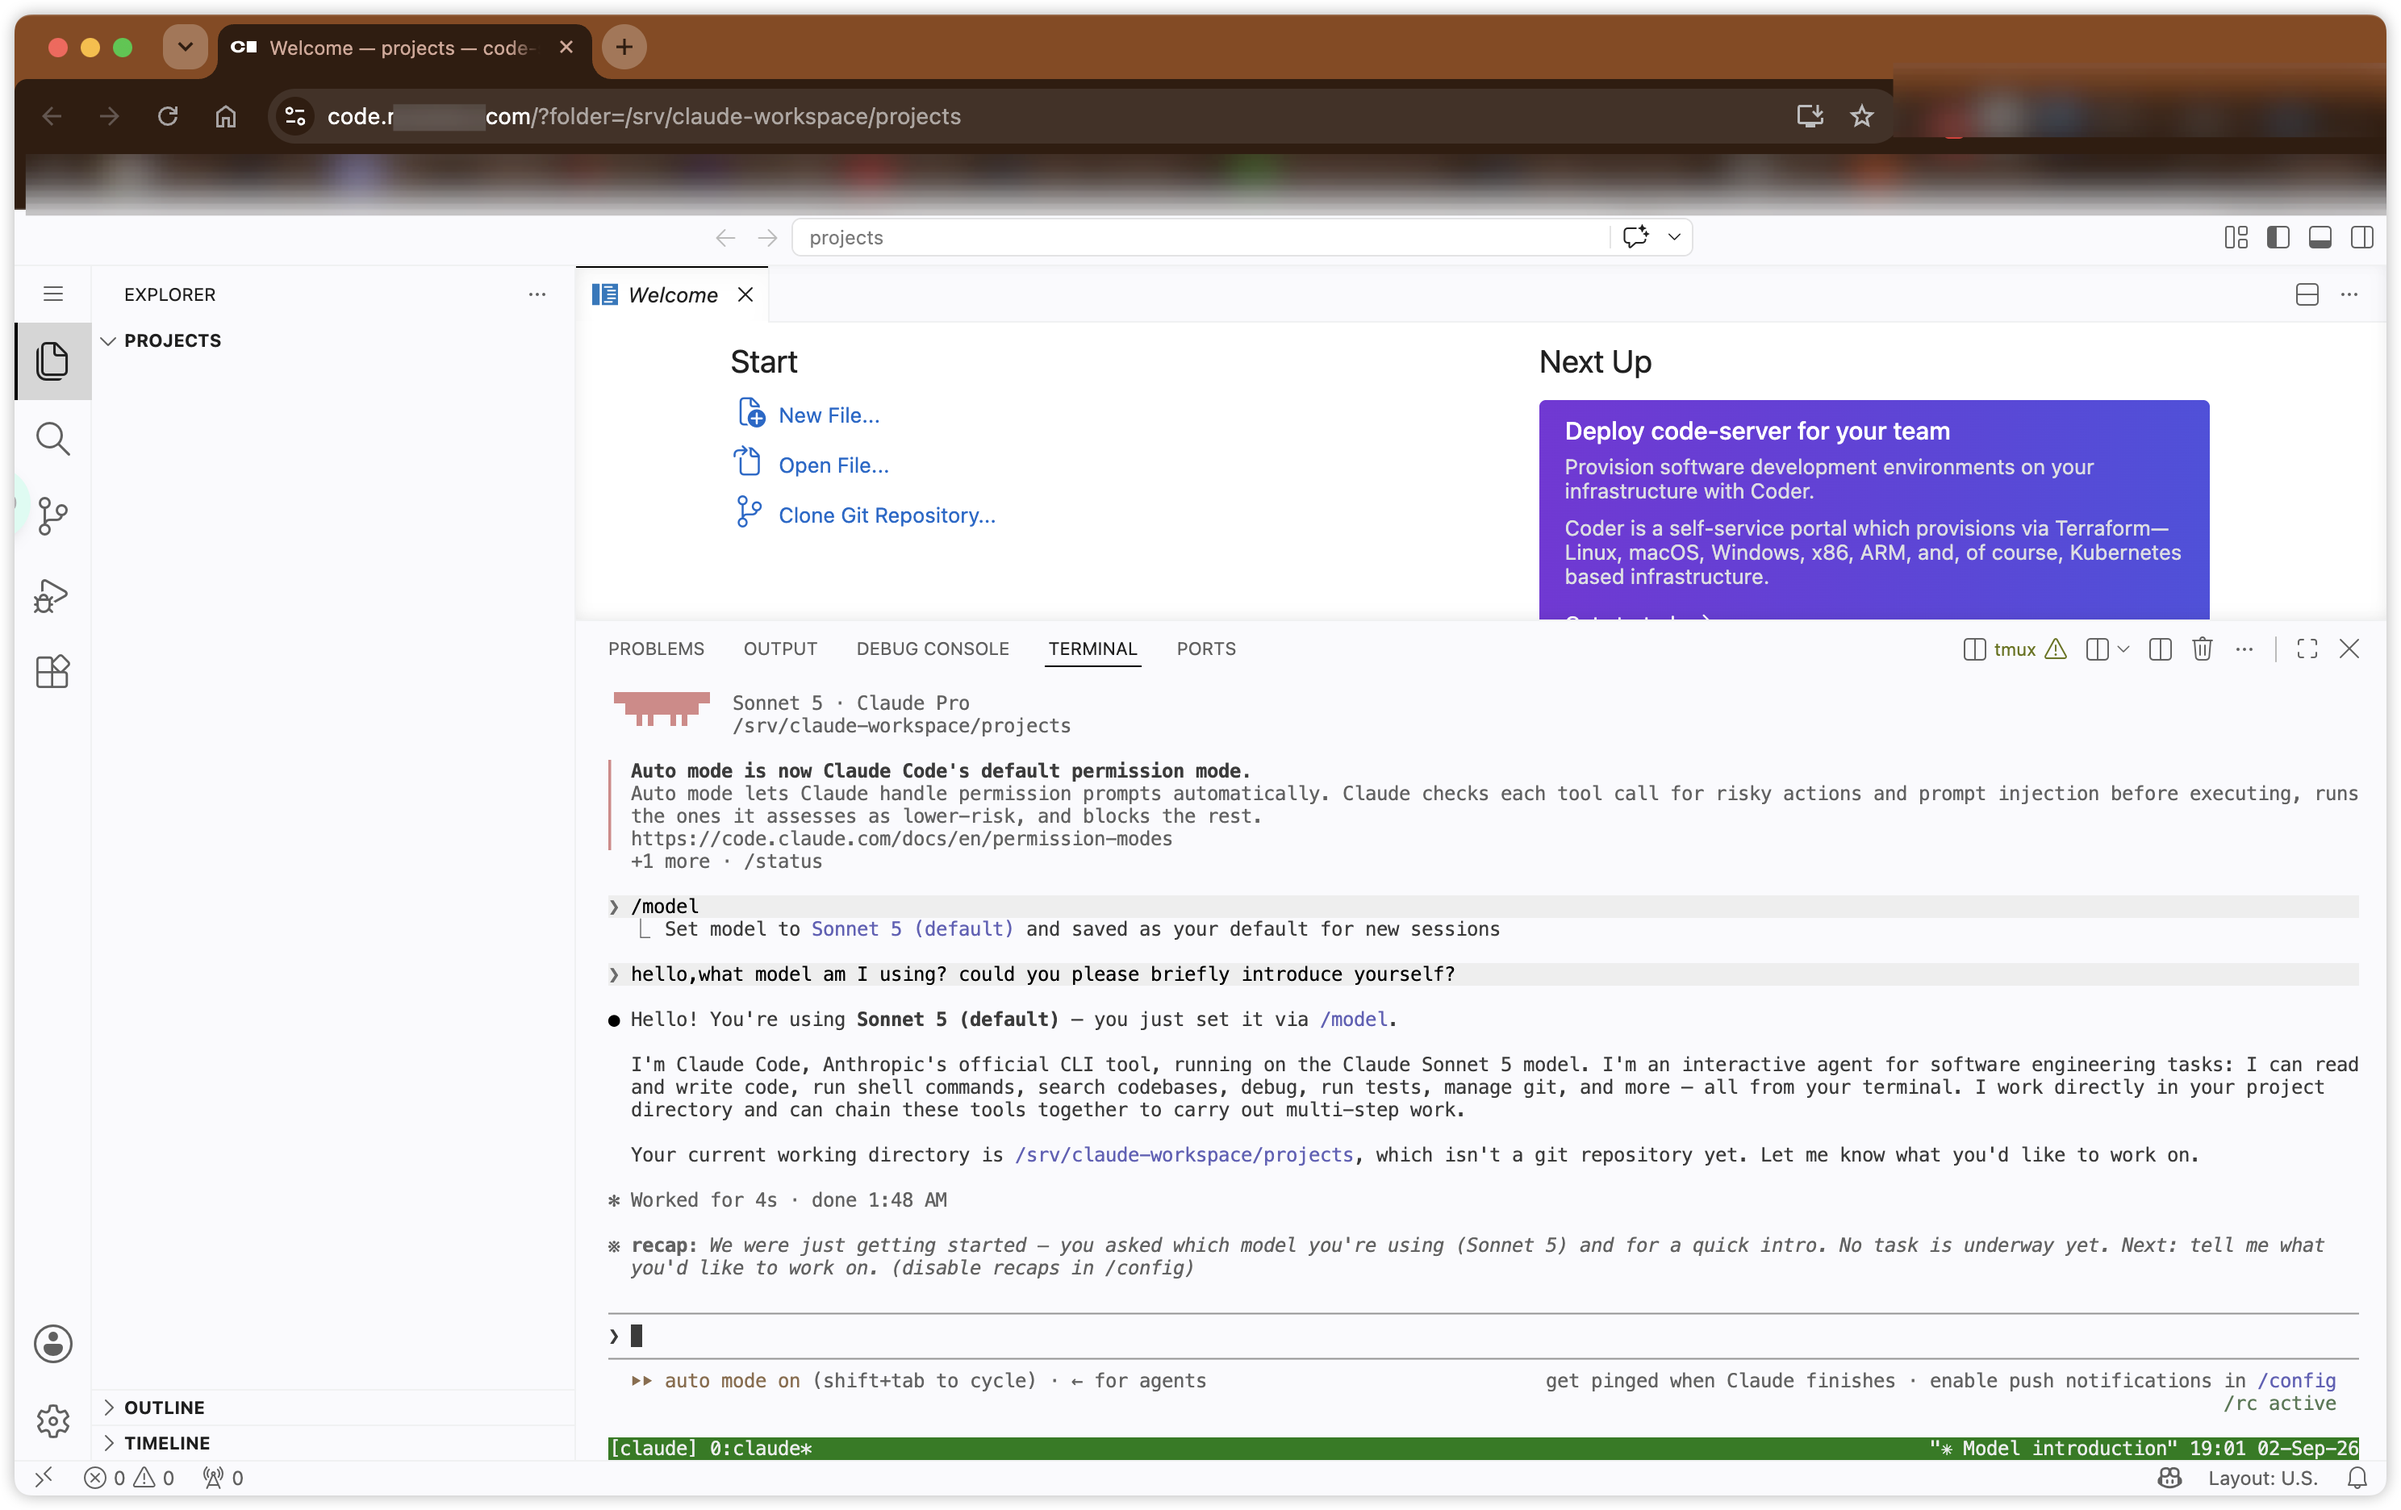
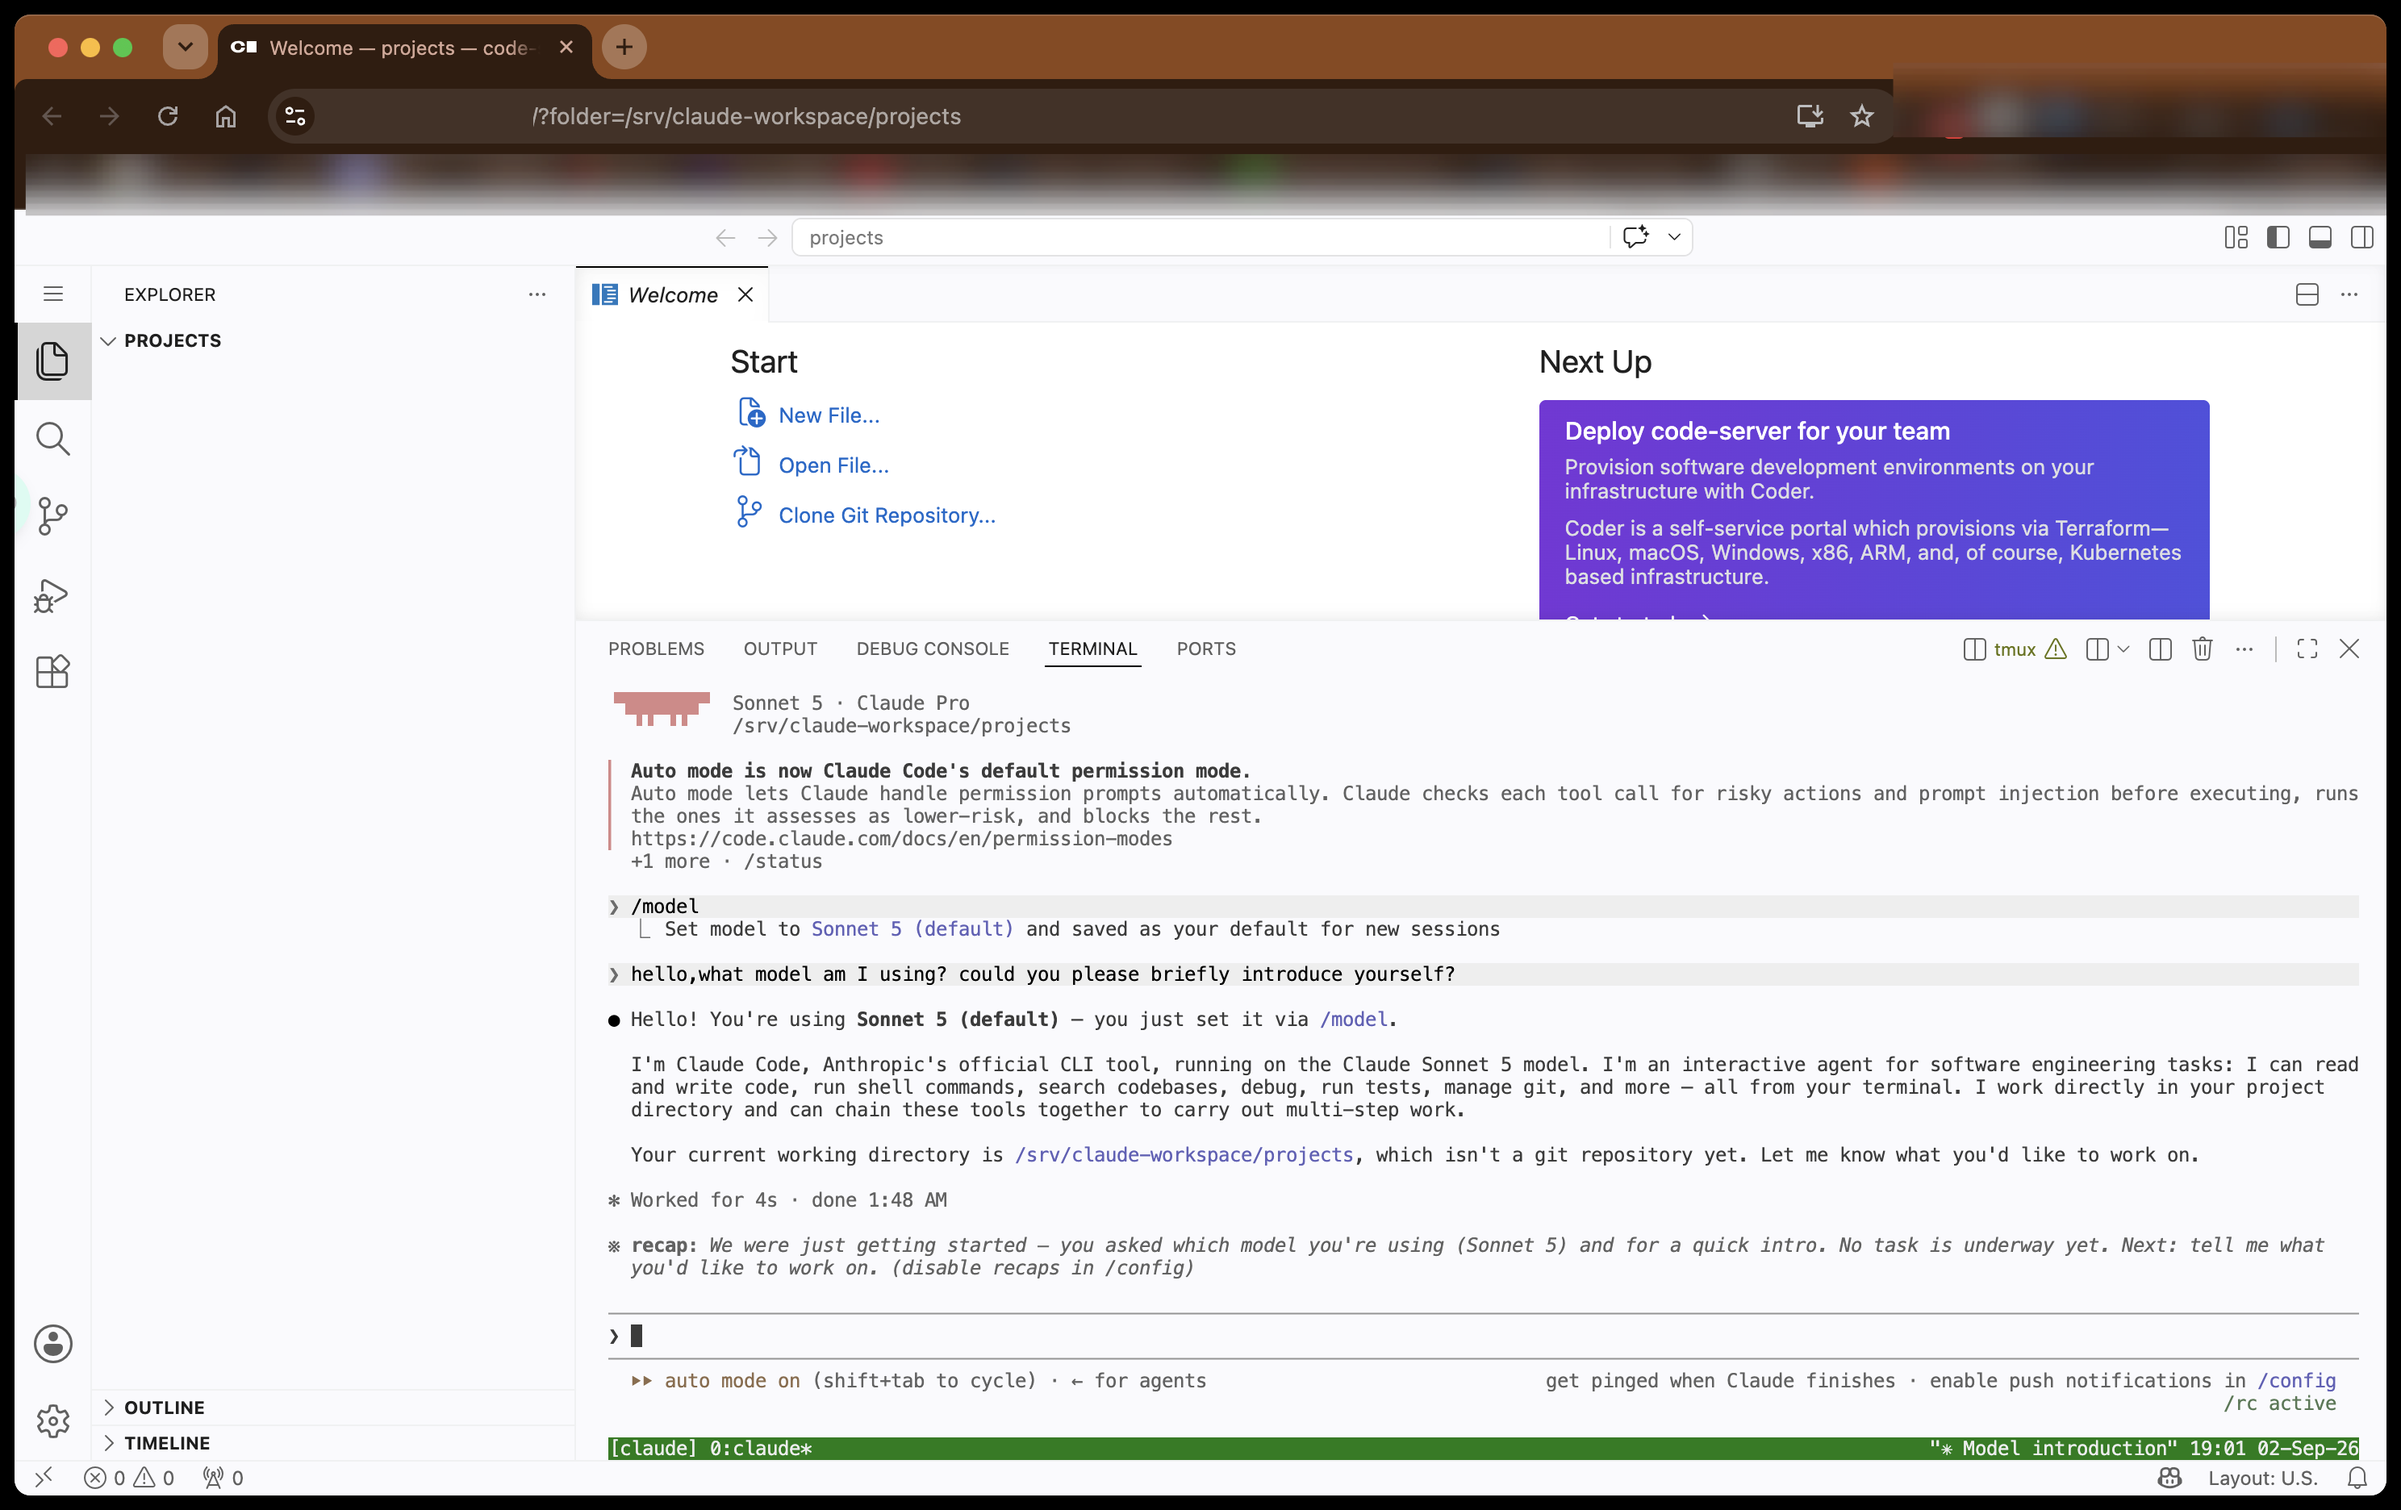
docs: add VS Code remote tunnel workflow

Changed region(s): [[0.0, 0.0, 1.0, 1.0], [0.1562, 0.062, 0.2188, 0.0929]]

diff --git a/AGENTS.md b/AGENTS.md
@@ -14,8 +14,11 @@
 
 - 远程 Chromium 访问官方 Claude.ai，使用画面串流；
 - code-server 提供浏览器终端，运行服务器上的官方 Claude Code；
+- 可选使用官方 VS Code Remote Tunnel，让本地 VS Code 连接同一服务器工作区并使用远程 Claude Code 扩展；
 - Cloudflare Access + 独立 Cloudflare Tunnel 是唯一公网入口；
 - Claude 网页和 Claude Code 不经过 Anthropic API relay、CPA、CLIProxyAPI、New API 或 LibreChat。
+
+这里的“唯一公网入口”是指项目自建的网页入口。可选 VS Code Remote Tunnel 使用微软官方服务建立出站连接，不创建本项目的入站监听、DNS 或 Caddy route。
 
 ## 默认部署模式
 
@@ -28,9 +31,10 @@
 - Chromium 使用独立 Docker bridge network；
 - Web 服务只监听 127.0.0.1；
 - Tunnel 单元名为 cloudflared-claude-workspace.service；
-- Chromium、code-server、Tunnel 使用独立 systemd 单元和资源上限。
+- Chromium、code-server、Tunnel 使用独立 systemd 单元和资源上限；
+- 用户明确启用桌面 VS Code 时，增加独立的 vscode-tunnel-claude-workspace.service，并让它与 code-server 共享工作区用户、运行 HOME、projects 和 TMUX_TMPDIR。
 
-只允许新增 /opt/claude-workspace、/srv/claude-workspace、名为 claude-workspace 的 Docker network、名为 claude-workspace-chromium 的容器，以及约定的三个 systemd 单元。不得为了方便使用不带 claude-workspace 标识的全局名称。
+只允许新增 /opt/claude-workspace、/srv/claude-workspace、名为 claude-workspace 的 Docker network、名为 claude-workspace-chromium 的容器，以及约定的工作区 systemd 单元。未选择桌面入口时不得擅自部署 VS Code Remote Tunnel。不得为了方便使用不带 claude-workspace 标识的全局名称。
 
 只有用户明确要求 dedicated-user 模式时，才创建 claude-ws 等专用账号、分离 HOME、ACL 或 nftables egress guard。多账户模式不是默认路径。
 
@@ -48,12 +52,15 @@
 10. 不把本地机场、代理变量、ANTHROPIC_BASE_URL 或第三方 relay 配到服务器的 Claude Code。
 11. 不复制其他设备的 Claude Profile、Cookie、~/.claude、~/.claude.json 或 OAuth Token。
 12. 不为健康检查发送真实模型请求；使用本地 health、systemd、Tunnel ready 和监听检查。
+13. VS Code Remote Tunnel 只能出站连接；不开放 Remote-SSH、authorized_keys、Caddy、DNS 或新端口，不运行 `tunnel service install` 或 `code update`。
+14. `code.<ZONE>` 只通向网页 code-server。本地 VS Code 必须使用官方 Remote Tunnels 连接方式，不能把这个 hostname 当成 VS Code Tunnel 或 SSH 地址。
 
 ## 必须停止并报告的情况
 
 - 当前 SSH 用户是 root，且没有用户指定的非 root 运行账号；
 - 3010/8080 和候选备用端口都被占用；
 - 发现已有同名工作区目录、容器、network、systemd 或 Tunnel 的来源不明；
+- 发现来源不明的 vscode-tunnel-claude-workspace.service、Tunnel 注册或远程扩展目录；
 - 旧服务在部署前后状态、启动时间、重启计数、端口、网络或配置发生变化；
 - 发现现有防火墙规则无法安全增量添加工作区规则；
 - 需要删除数据、volume、Profile、OAuth、Tunnel credentials 或修改旧服务；
@@ -73,16 +80,20 @@
 6. 在 Cloudflare 控制台创建两个默认拒绝、邮箱/身份组 + MFA 的 Access 应用。
 7. 创建独立 locally-managed Tunnel，仅路由到工作区回环端口；不用 Caddy，不创建源站 A/AAAA。
 8. 让用户完成远程 Chromium 的官方网页登录和远程 Claude Code OAuth。
-9. 用 scripts/check.sh verify、服务状态、端口、network、Tunnel ready 和旧服务基线做最终验收。
-10. 输出访问地址占位符、实际端口、服务状态、备份位置和回滚命令；不输出秘密。
+9. 用户选择桌面入口时，再部署固定版本的官方 VS Code CLI、独立 wrapper/systemd 和远程 `Anthropic.claude-code` 扩展；GitHub device login 由用户人工完成。
+10. 用 scripts/check.sh verify、服务状态、端口、network、Tunnel ready、可选 Remote Tunnel 和旧服务基线做最终验收。
+11. 输出访问地址占位符、实际端口、服务状态、备份位置和回滚命令；不输出秘密。
 
 ## 服务实现要求
 
 - Chromium 仅挂载 /srv/claude-workspace/browser；关闭分享、协作、文件传输、远程命令、麦克风等不需要的功能。
-- code-server 只打开 /srv/claude-workspace/projects，使用密码认证、disable telemetry、回环监听和 tmux。
+- code-server 只打开 /srv/claude-workspace/projects，使用密码认证、disable telemetry、回环监听和 tmux。其默认 Claude 入口是终端 CLI；不得假定或伪装已有 Claude 侧边栏。
 - Claude Code 运行时清除 ANTHROPIC_API_KEY、ANTHROPIC_BASE_URL、ANTHROPIC_AUTH_TOKEN、CLAUDE_CODE_OAUTH_TOKEN、HTTP_PROXY、HTTPS_PROXY、ALL_PROXY 等环境变量。
 - Tunnel 使用 credentials-file，不把长期 Token 放在 ExecStart 或 shell history。
-- systemd 停止/回滚工作区时只能操作名称以 claude-workspace 或 code-server-claude-workspace、cloudflared-claude-workspace 开头的单元。
+- 可选 VS Code Remote Tunnel 必须使用官方 ARM64 CLI 的固定版本和校验和、root 管理的受限 wrapper、独立 CLI/Server/extensions 目录及资源上限；远程扩展只安装官方 ID `Anthropic.claude-code`。
+- code-server 和 VS Code Remote Tunnel 必须使用同一非 root 用户、运行 HOME、projects 和工作区内的 TMUX_TMPDIR，但扩展目录必须分开。两端不得并发修改同一文件、执行 Git 写操作或恢复同一 Claude 会话。
+- Remote Tunnel GitHub device login 和 Claude 登录必须由用户完成；不得在命令行、仓库或聊天中传递 access/refresh token，也不得复制其他机器的注册状态。
+- systemd 停止/回滚工作区时只能操作名称以 claude-workspace 或 code-server-claude-workspace、cloudflared-claude-workspace、vscode-tunnel-claude-workspace 开头的单元。
 - 如果需要宿主机 egress 限制，必须先说明规则会影响哪些 UID/bridge，并只创建独立表；绝不 flush 现有防火墙。
 
 ## dedicated-user 模式
@@ -100,6 +111,7 @@
 
 - 仓库中只放公开说明、检查脚本和不含生产值的示例。
 - 不新增真实域名、IP、邮箱、Tunnel UUID、SSH 路径、生产 digest、备份路径或账号标识。
+- 发布前逐张检查图片中的地址栏、标题、账号、聊天、项目和终端内容，并清除图片元数据；文本扫描不能替代图片检查。
 - 使用 apply_patch 编辑文件；脚本必须通过 bash -n。
 - 修改后运行 git diff --check，并扫描工作树和 Git 历史。
 - 不自动 commit、push、修改 GitHub 可见性或创建发布，除非用户明确要求。
